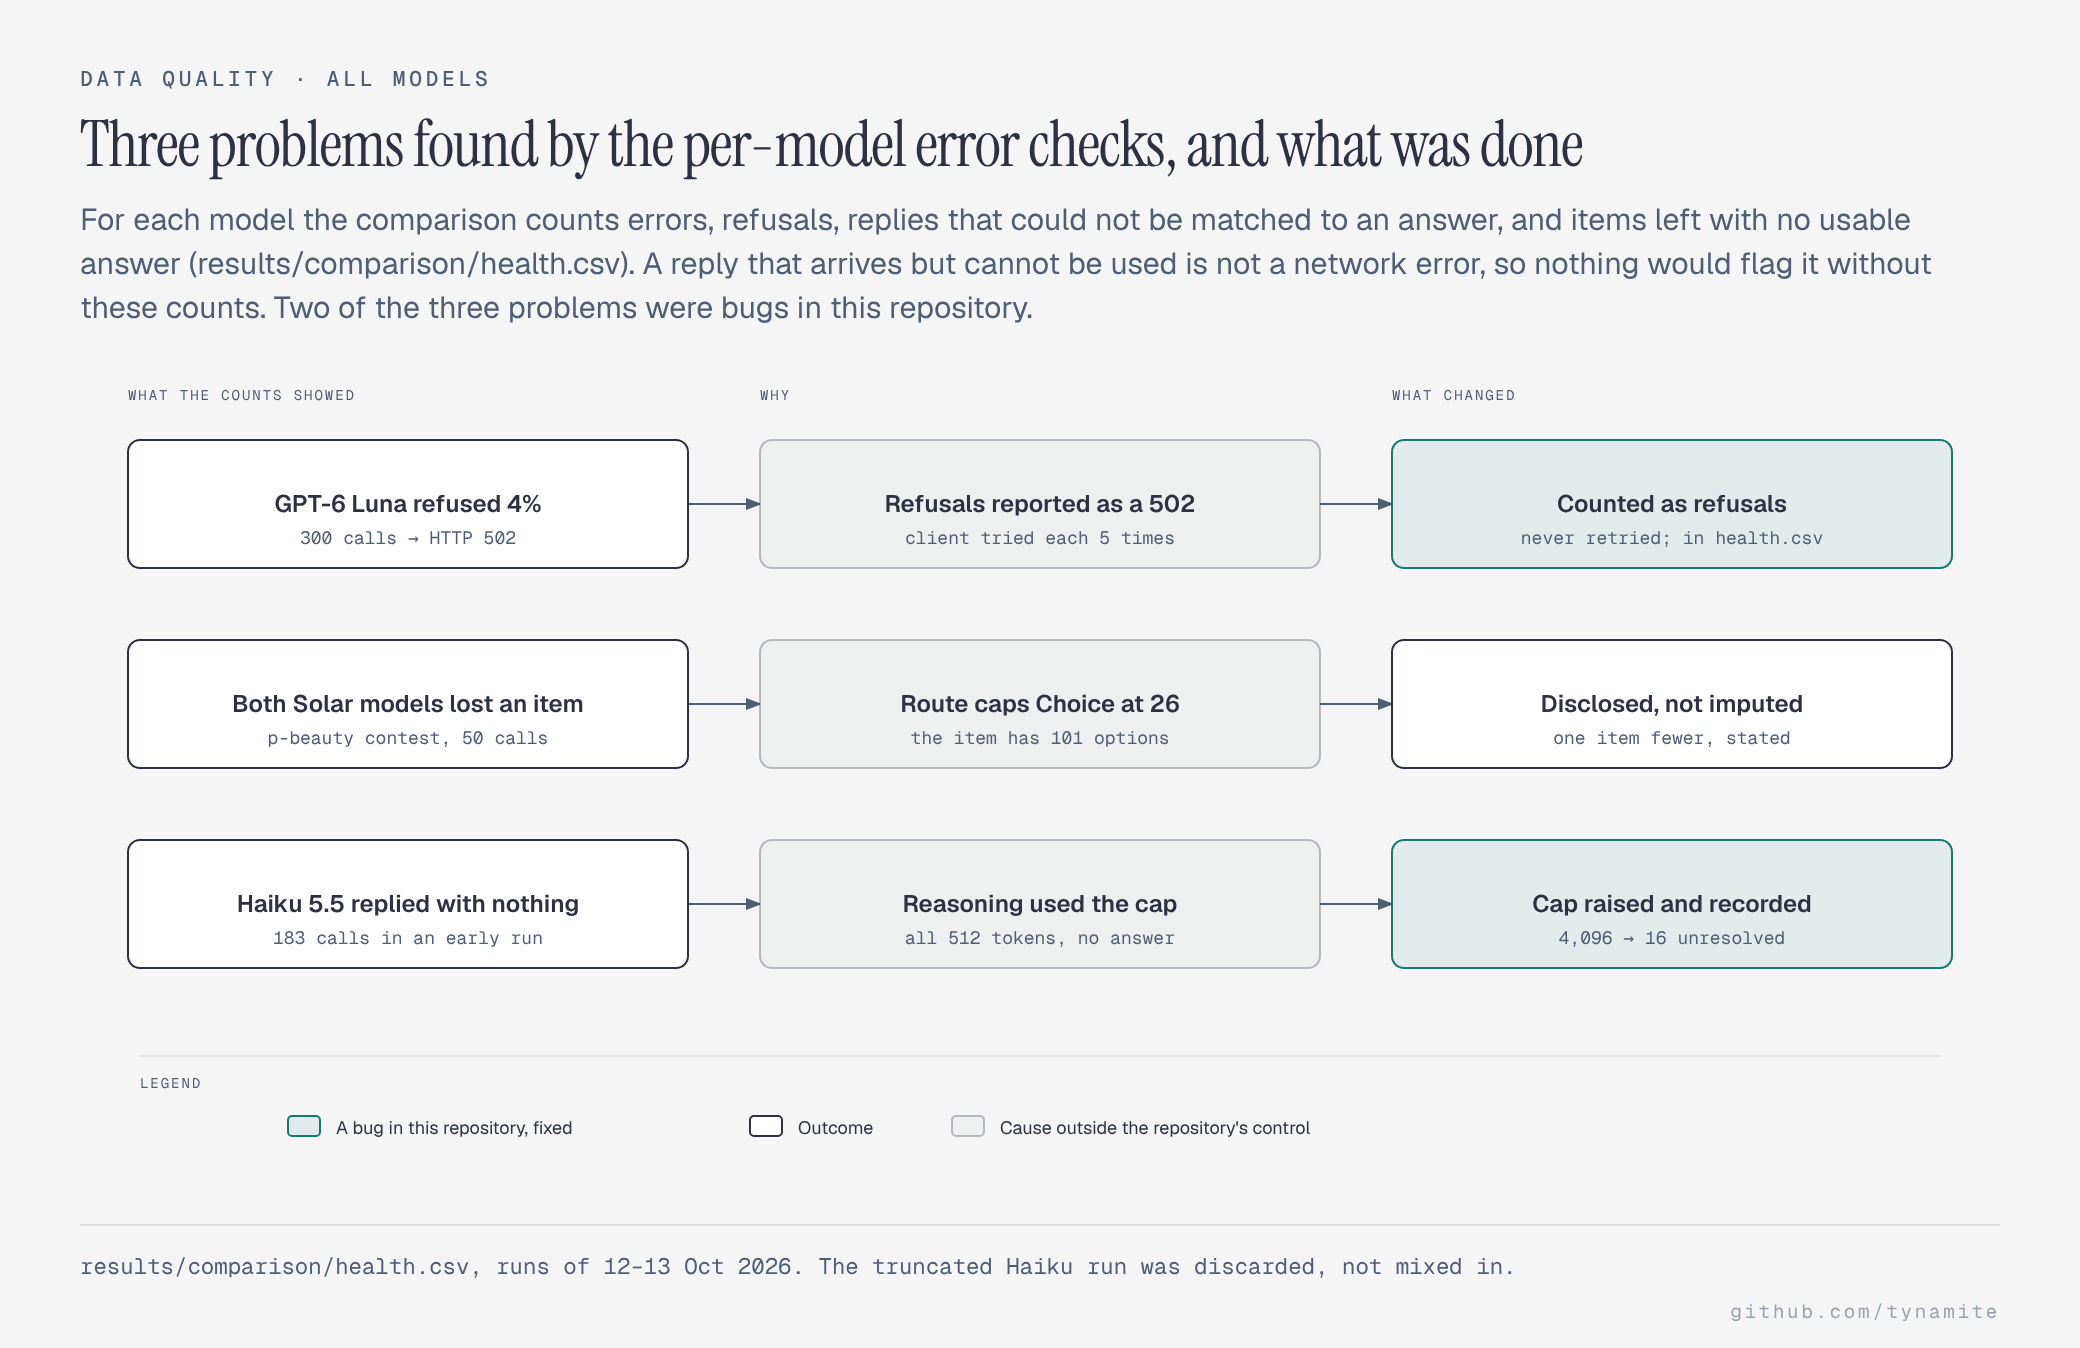
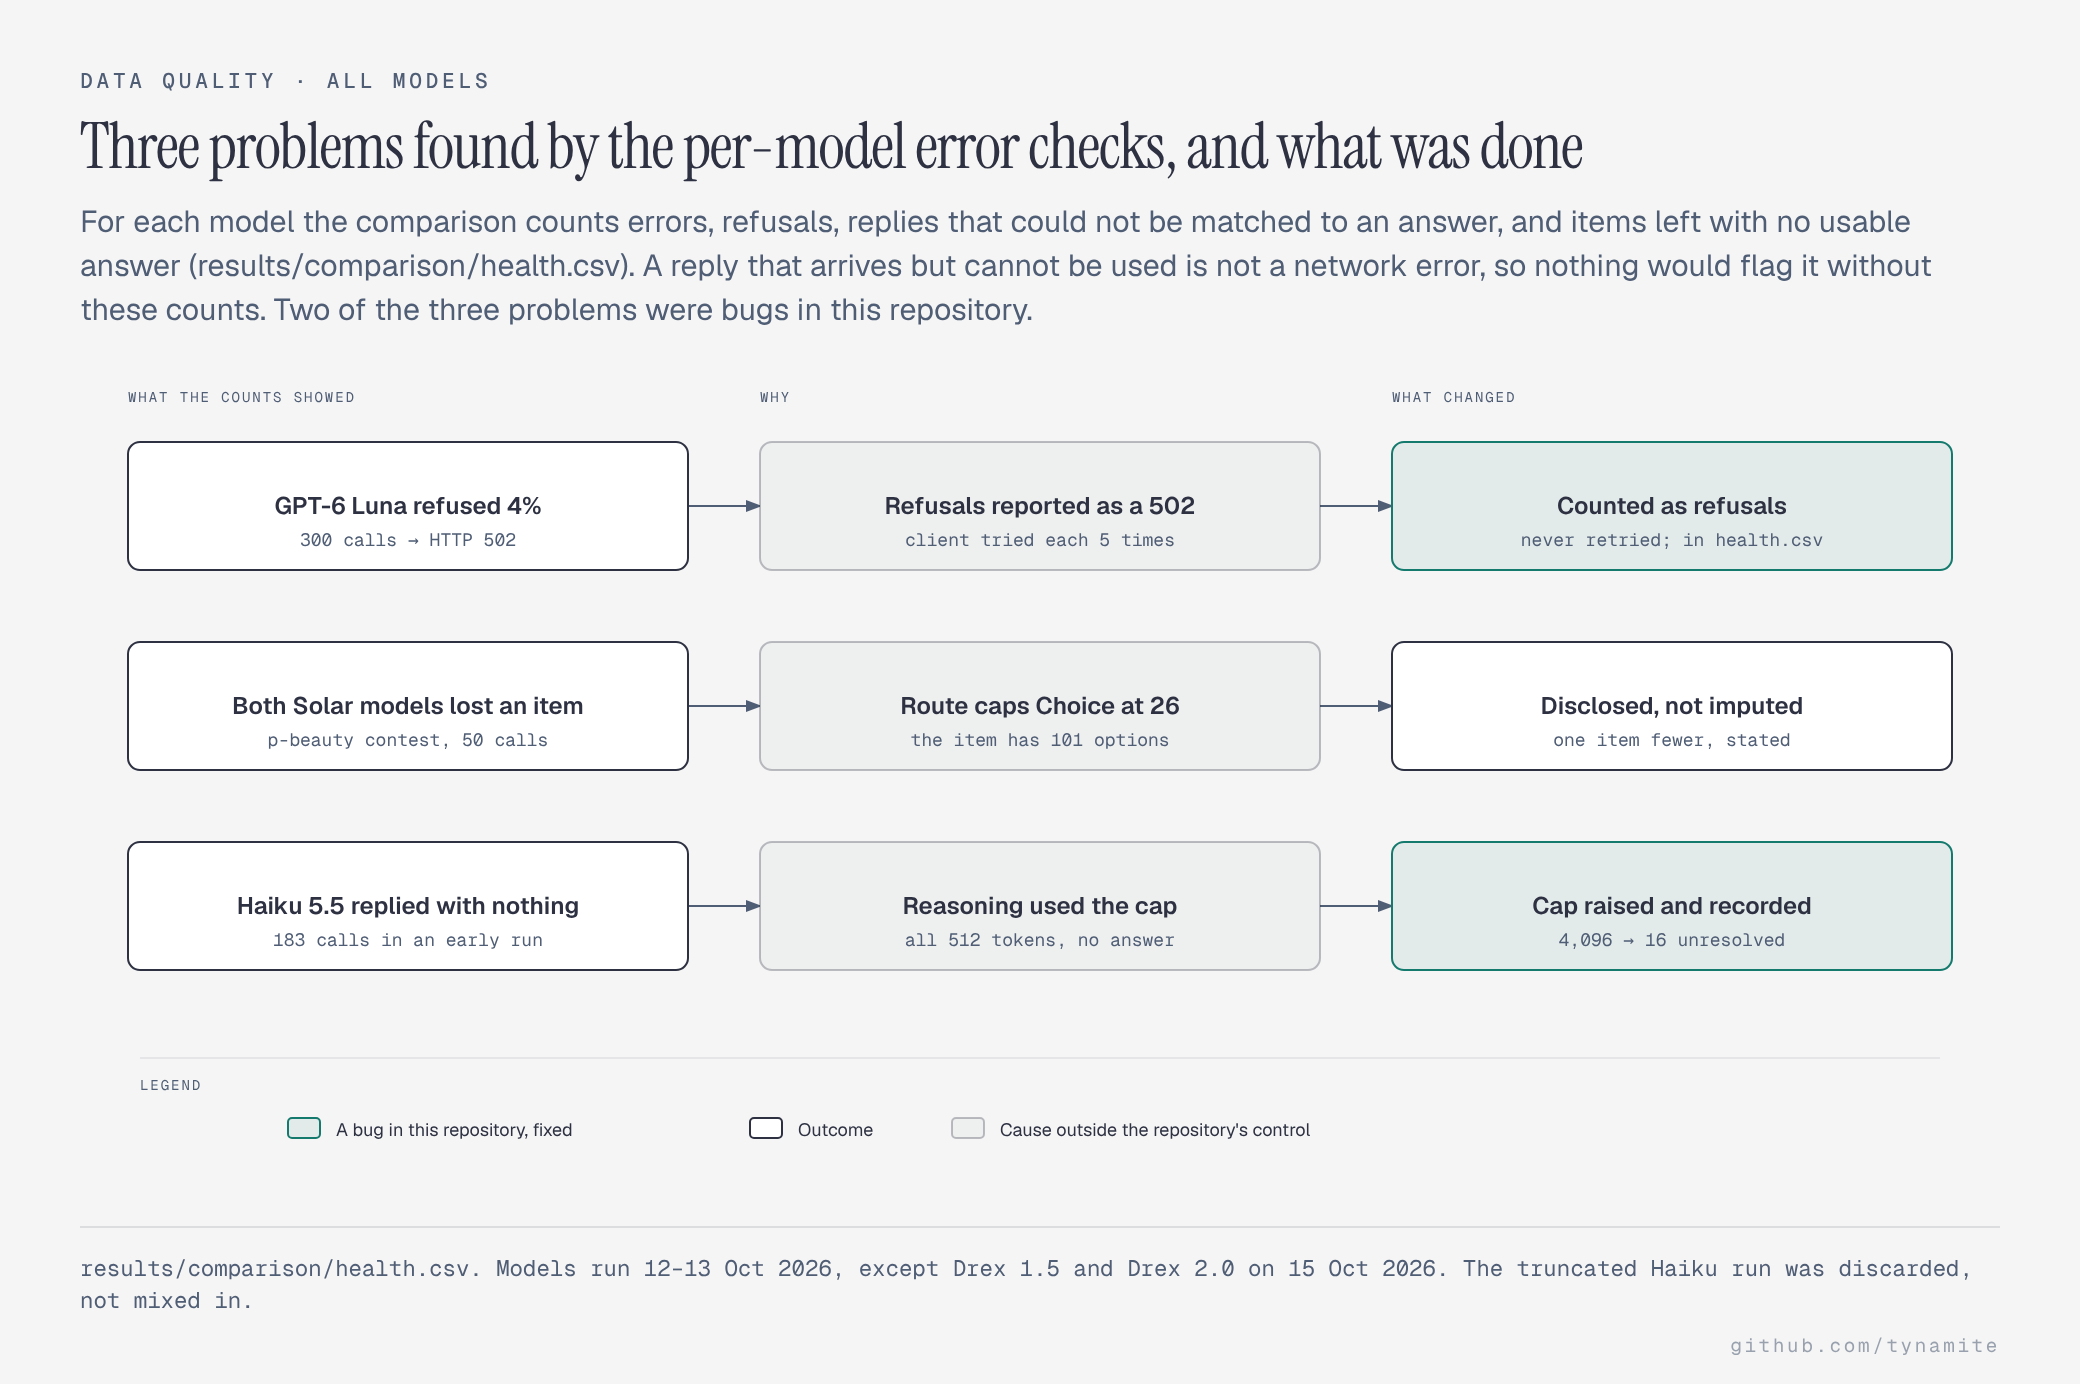
Model counts and health-figure run dates for the expanded comparison

diff --git a/docs/diagrams/health-checks.html b/docs/diagrams/health-checks.html
@@ -108,7 +108,7 @@
 <text x="460" y="411" fill="#2d3142" font-size="9" font-family="'Geist', system-ui, sans-serif" text-anchor="start">Cause outside the repository&#x27;s control</text>
       </svg>
     </div>
-    <p class="source">results/comparison/health.csv, runs of 12–13 Oct 2026. The truncated Haiku run was discarded, not mixed in.</p>
+    <p class="source">results/comparison/health.csv. Models run 12–13 Oct 2026, except Drex 1.5 and Drex 2.0 on 15 Oct 2026. The truncated Haiku run was discarded, not mixed in.</p>
     <p class="mark" aria-hidden="true">github.com/tynamite</p>
   </div>
 </body>

diff --git a/src/jevbench/diagrams.py b/src/jevbench/diagrams.py
@@ -1759,7 +1759,7 @@ def fig_process() -> Figure:
     )
 
 
-def fig_health() -> Figure:
+def fig_health(run_files: dict[str, str] | None = None) -> Figure:
     W, H = 960, 440
     w, h = 280, 64
     cols = [24, 340, 656]
@@ -1834,8 +1834,8 @@ def fig_health() -> Figure:
         width=W,
         height=H,
         body="\n".join(a),
-        source="results/comparison/health.csv, runs of 12\u201313 Oct 2026. The truncated Haiku run was discarded, "
-        "not mixed in.",
+        source=f"results/comparison/health.csv. {_runs_when(run_files, sorted(run_files or {}))} The "
+        "truncated Haiku run was discarded, not mixed in.",
     )
 
 
@@ -3313,7 +3313,7 @@ def build_diagrams(
         fig_models_order(runs),
         fig_models_scatter(fdf, files),
         fig_framing(mdf, files),
-        fig_health(),
+        fig_health(files),
     ]
     # Follow-up H4 is drawn only when the run has paired items to draw.
     h4_path = tables_dir / "followup_h4.csv"

diff --git a/scripts/gen_results_doc.py b/scripts/gen_results_doc.py
@@ -313,7 +313,10 @@ def main(argv: list[str]) -> int:
     )
     if across:
         L.append("## Across the System One models\n")
-        L.append("All twelve models are compared, with the discussion, in "
+        n_models = len(pd.read_csv(ROOT / "results" / "comparison" / "health.csv"))
+        words = "zero one two three four five six seven eight nine ten eleven twelve thirteen fourteen fifteen sixteen"
+        count = words.split()[n_models] if n_models < 17 else str(n_models)
+        L.append(f"All {count} models are compared, with the discussion, in "
                  "[MODELS.md](MODELS.md).\n")
         L += across
         L.append("")

diff --git a/README.md b/README.md
@@ -515,7 +515,7 @@ titles and source lines name the committed run (Jev 1.13, 10 repeats, 12–13 Oc
 
 ### Adding more models
 
-Results for nine more System One models and Claude Haiku 5.5 are in
+Results for eleven more System One models and Claude Haiku 5.5 are in
 [docs/MODELS.md](docs/MODELS.md).
 
 Every System One model on OpenRouter's decisions route shares Jev's
